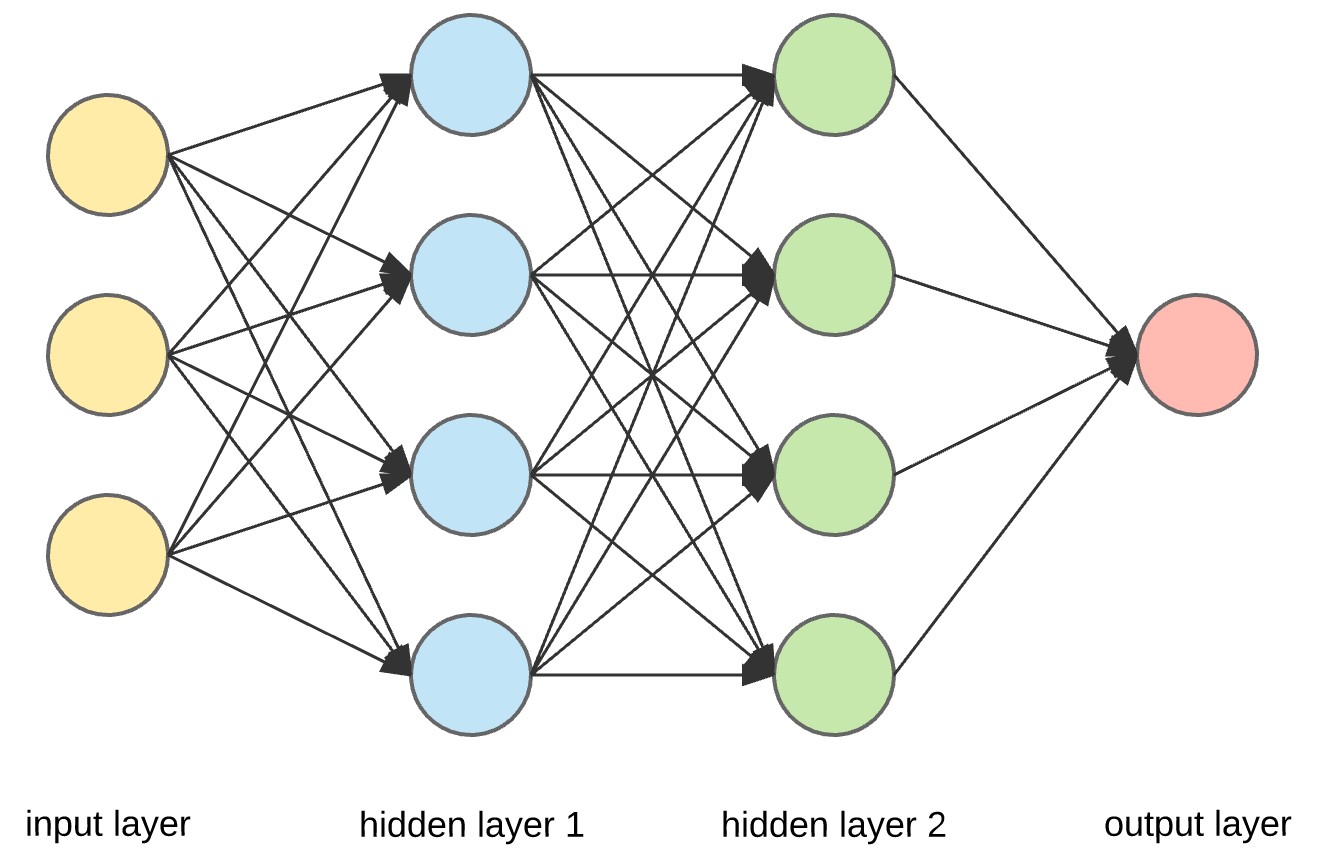
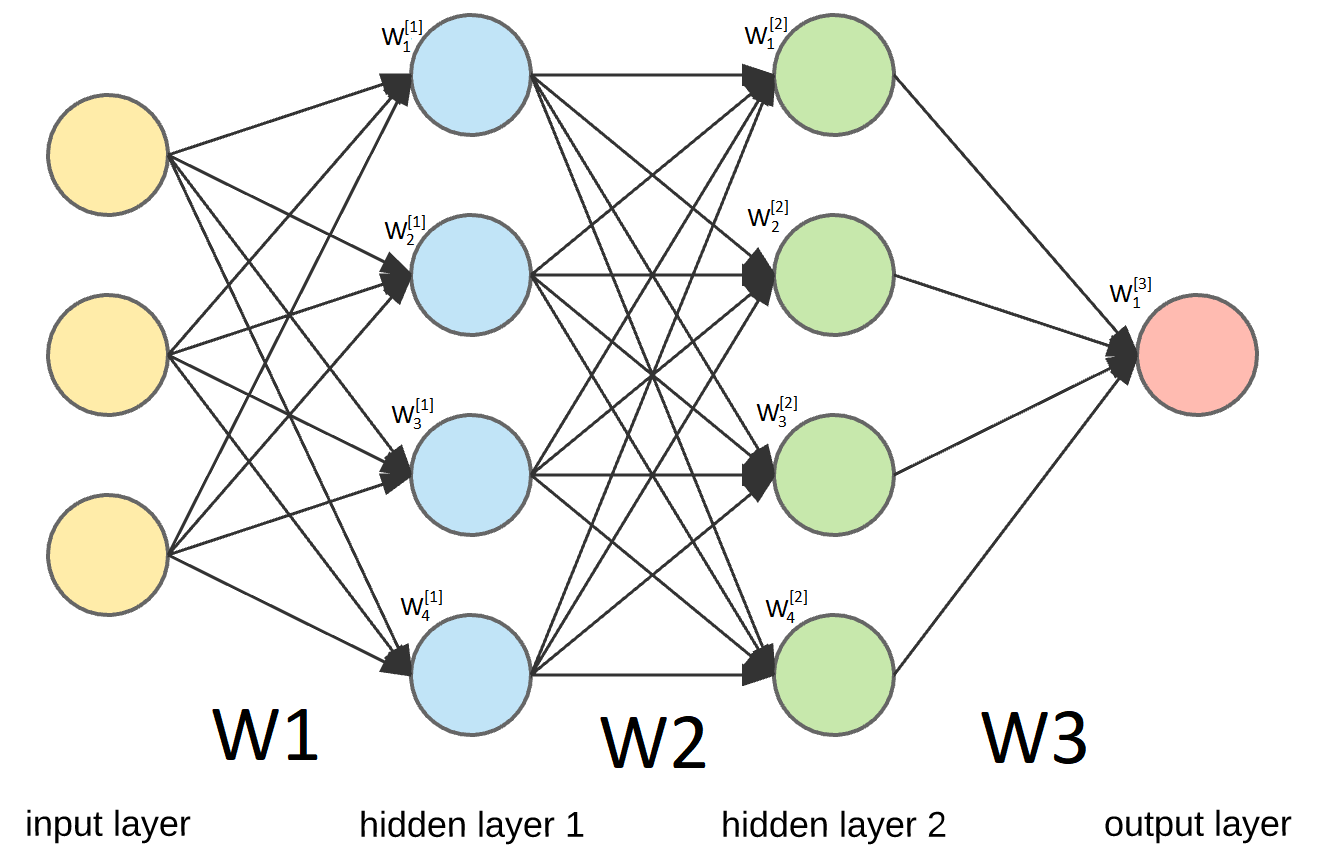
new neural network

diff --git a/README.md b/README.md
@@ -14,10 +14,10 @@
 
 ##### Here the input layer contains 3 units, 1st hidden layer contains 4 units, 2nd hidden layer contains 4 units and the output layer contains 1 unit. This is a 3 layer network because we don't count input layer as a layer.
 
-#### Forward Propagation
-Forward Propagation is nothing but series of matrix multiplications along the depth of the network, where the weights of current layer is taken dot product with the activation matrix of previous layers.
-
 ##### Weight matrix
+
+The arrows in the neural networks between the layers represents the weights. Weight matrix is the collection of weights of the same layer. 
+
 What is a weight matrix? A weight matrix is nothing but a matrix of random numbers with shape of (current, previous) where current is the number of units/nodes(A unit is a single neuron in a network) in the current layers(for which you are calculating the activations and previous is the number of nodes/units from the previous activation layer)
 For example, if your network have a 3 layer architecture with [3, 4, 4, 1] nodes. [3, 4, 4, 1] means 3 nodes in input layer, 4 nodes in the first hidden layer, 4 nodes in the second hidden layer and 1 node in the output layer.
 Now, as you have noticed there are 4 elements in the array. That's because we don't count input layer as a seperate layer. So, if we want to find number of layers in a neural network then it would be equal to number of hidden layers and output layer.
@@ -85,3 +85,6 @@ The main disadvantage is the slope of these functions are very less when x is ve
 This activation function is the first choice of many experienced people in deep learning industry for hidden layers. This is one of the best activation functions. It basically takes the maximum value between 0 and Z.
 ##### For example,
 ![](images/relu_matrix.PNG)
+
+#### Forward Propagation
+Forward Propagation is nothing but series of matrix multiplications along the depth of the network, where the weights of current layer is taken dot product with the activation matrix of previous layers.
